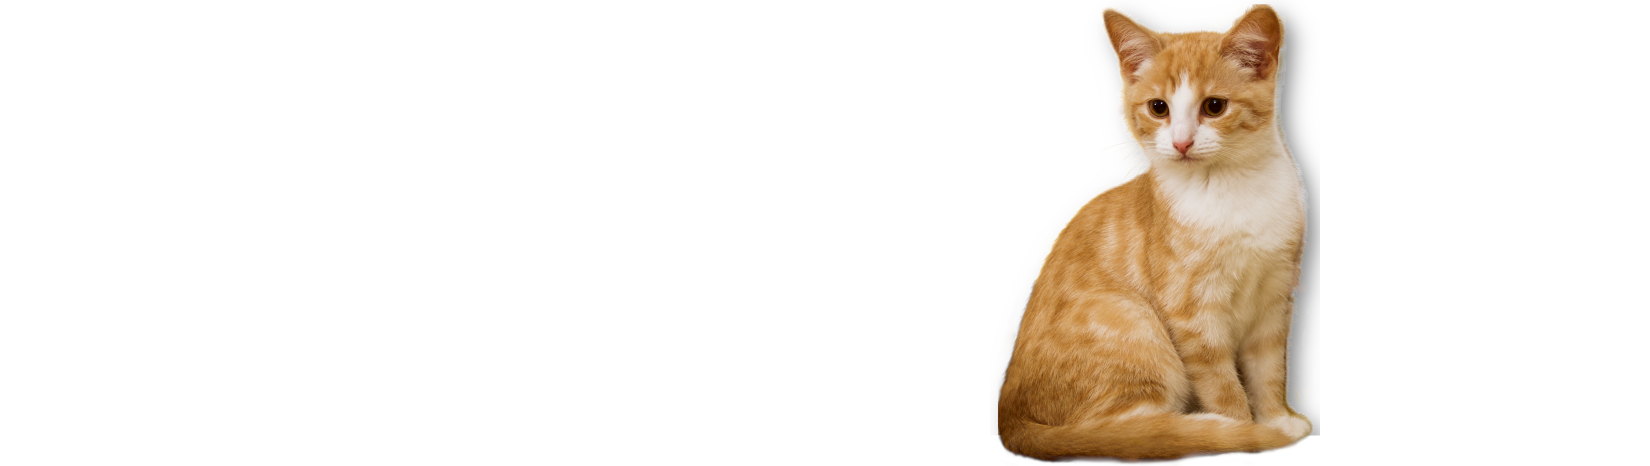
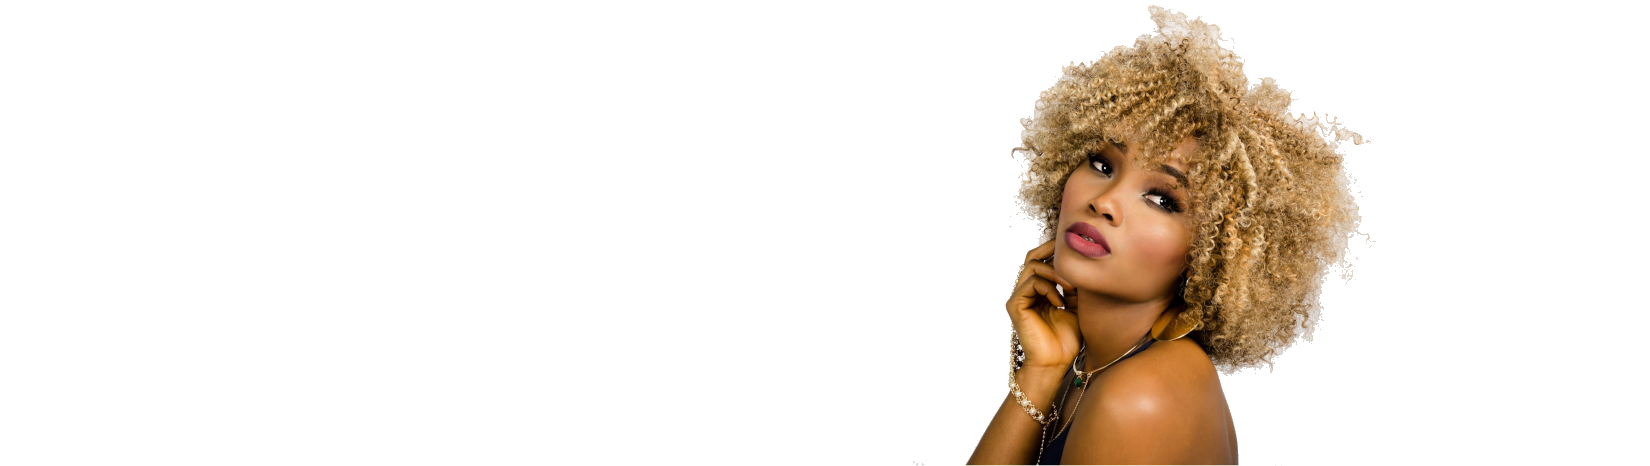
first stage

Changed region(s): [[0.5873, 0.0, 0.8345, 1.0]]

diff --git a/index.html b/index.html
@@ -8,7 +8,7 @@
   <meta name="description" content="">
   <meta name="author" content="">
 
-  <title>Koci Behaviorysta</title>
+  <title>VipServ</title>
 
   <!-- Bootstrap core CSS -->
   <link href="vendor/bootstrap/css/bootstrap.min.css" rel="stylesheet">
@@ -28,7 +28,7 @@
   <!-- Navigation -->
   <nav class="navbar navbar-expand-lg navbar-light fixed-top" id="mainNav">
     <div class="container">
-      <a class="navbar-brand js-scroll-trigger" href="#page-top">Behaviorysta</a>
+      <a class="navbar-brand js-scroll-trigger" href="#page-top">Agencja Ochrony</a>
       <button class="navbar-toggler navbar-toggler-right" type="button" data-toggle="collapse" data-target="#navbarResponsive" aria-controls="navbarResponsive" aria-expanded="false" aria-label="Toggle navigation">
         Menu
         <i class="fas fa-bars"></i>
@@ -39,7 +39,7 @@
             <a class="nav-link js-scroll-trigger" href="#about">O nas</a>
           </li>
           <li class="nav-item">
-            <a class="nav-link js-scroll-trigger" href="#projects">Metody</a>
+            <a class="nav-link js-scroll-trigger" href="#projects">Oferta</a>
           </li>
           <li class="nav-item">
             <a class="nav-link js-scroll-trigger" href="#signup">Kontakt</a>
@@ -53,8 +53,8 @@
   <header class="masthead">
     <div class="container d-flex h-100 align-items-center">
       <div class="mx-auto text-center">
-        <h1 class="mx-auto my-0 text-uppercase">Koci Behaviorysta</h1>
-        <h2 class="text-white-50 mx-auto mt-2 mb-5">uczymy jak czerpać radość żyjąc z kotem</h2>
+        <h1 class="mx-auto my-0 text-uppercase">VIP Security</h1>
+        <h2 class="text-white-50 mx-auto mt-2 mb-5">Transport hostess oraz ochrona nocnych klubów</h2>
         <a href="#about" class="btn btn-primary js-scroll-trigger">Poznaj nas</a>
       </div>
     </div>
@@ -65,9 +65,8 @@
     <div class="container">
       <div class="row">
         <div class="col-lg-8 mx-auto">
-          <h2 class="text-white mb-4">Niepokoi cię zachowanie twojego kota?</h2>
-          <p class="text-white-50">Jeśli zauważasz coś niepkojącego w zachowaniu swojego kota powinieneś w pierwszej kolejności odwiedzić weterynarza. Jeśli okaże się że fizjologicznie twojemu kotu nic nie dolega, może okazać się że twój pupil ma niezaspokojony
-            <a href="https://en.wikipedia.org/wiki/Ethogram">etogram</a>. Koty nie są złośliwymi pupilami, potrafią jednak być wymagającymi domownikami.</p>
+          <h2 class="text-white mb-4">Pewnie, bezpiecznie, intymnie.</h2>
+          <p class="text-white-50">Zapewniamy kompleksowe usługi ochrony. Posiadamy flotę luksusowych pojazdów oraz liczną grupę przeszkolonych ochroniarzy zapewniających bezpieczeństwo na każdym poziomie. Świadczymy usługi dla najlepszych klubów nocnych na terenie większości miast w Polsce. Nasi ludzie czuwają nad bezpieczeństwem dam i dżentelmenów od Krakowa, poprzez Warszawę i Toruń na Trójmieście kończąc. Nasza ochrona jest dyskretna lecz skuteczna. Poszukujesz profesjonalnej ochrony dla twojego interesu to dobrze trafiłeś. Zapraszamy do współpracy.</p>
         </div>
       </div>
       <img src="img/ipad.png" class="img-fluid" alt="">
@@ -85,8 +84,8 @@
         </div>
         <div class="col-xl-4 col-lg-5">
           <div class="featured-text text-center text-lg-left">
-            <h4>Porady</h4>
-            <p class="text-black-50 mb-0">W pierwszej kolejności należy zdefiniować problemy występujące u naszych podopiecznych. Może się okazać iż problem może być łatwy do rozwiązania samodzielnie. W większości wypadków wymagana jest niestety wizyta specjalisty aby całościowo ocenić wszelkie potencjalne źródła problemu.</p>
+            <h4>Transport VIPów</h4>
+            <p class="text-black-50 mb-0">Nasi pracownicy są doskonałymi kierowcami zapewniającymi pełne bezpieczeństwo naszymm klientom na trasie przejazdu. Organizujemy bezpieczny konwój z lotnisk, do klubów, na imprezy zorganizowane. Nasi kierowcy przechodzą okresowe szkolenia z bezpiecznej jazdy oraz uczą się jak być szoferem najwyżej klasy zgodnie z etykieta dyplomatyczną. Niech twoi klienci poczują sie jak prawdziwi VIP.</p>
           </div>
         </div>
       </div>
@@ -100,8 +99,8 @@
           <div class="bg-black text-center h-100 project">
             <div class="d-flex h-100">
               <div class="project-text w-100 my-auto text-center text-lg-left">
-                <h4 class="text-white">Konsultacje</h4>
-                <p class="mb-0 text-white-50">Prowadzimy zdalne konsultacje z wykorzystaniem wideo-chatu (skype lub messenger). Taka forma pozwala na zapoznanie się z problemami oraz umożliwia wprowadzenie pierwszych ćwiczeń na drodze do przysposobienia kota.</p>
+                <h4 class="text-white">Ochrona hostess</h4>
+                <p class="mb-0 text-white-50">Twoje hostessy to twój największy skarb. Od ich bezpieczeństwa zależy bezpieczeństwo twojego biznesu. Powinieneś zadbać o ochronę na najwyższym poziomie. Ochroniarze dla dziewczyn powinni budzić respekt ale nie straszyć. Karki w dresach nie dają takiego samego efektu jak schludni Panowie w garniturach.</p>
                 <hr class="d-none d-lg-block mb-0 ml-0">
               </div>
             </div>
@@ -118,8 +117,8 @@
           <div class="bg-black text-center h-100 project">
             <div class="d-flex h-100">
               <div class="project-text w-100 my-auto text-center text-lg-right">
-                <h4 class="text-white">Wizyta</h4>
-                <p class="mb-0 text-white-50">W trakcie wizyty możemy obserwować pupila w jego naturalnym otoczeniu. Pozwala nam to na szybsze zdiagnozowanie źródeł problemu. Niezmiernie istotna jest obserwacja interakcji między opiekunem a pupilem.</p>
+                <h4 class="text-white">Ochrona klubów</h4>
+                <p class="mb-0 text-white-50">Jeśli twoja ochrona do obrony potrzebuje broni to stanowi to wielkie zagrożenie dla twojego biznesu. Najlepsza ochrona to taka która zapobiega konfrontacji. Nasi pracownicy są przeszkoleni z bezsiłowego rozwiązywania konfliktów oraz z technik programowania neuro-lingwistycznego co powoduje iż potrawią zneutralizować zagrożenie zanim dojdzie do eskalacji.</p>
                 <hr class="d-none d-lg-block mb-0 mr-0">
               </div>
             </div>
@@ -137,7 +136,7 @@
         <div class="col-md-10 col-lg-8 mx-auto text-center">
 
           <i class="far fa-paper-plane fa-2x mb-2 text-white"></i>
-          <h2 class="text-white mb-5">Bądźmy w kontakcie!</h2>
+          <h2 class="text-white mb-5">Zapytaj o wycenę!</h2>
 
           <form class="form-inline d-flex">
             <input type="email" class="form-control flex-fill mr-0 mr-sm-2 mb-3 mb-sm-0" id="inputEmail" placeholder="Wpisz tutaj swój email...">
@@ -161,7 +160,7 @@
               <i class="fas fa-map-marked-alt text-primary mb-2"></i>
               <h4 class="text-uppercase m-0">Adres</h4>
               <hr class="my-4">
-              <div class="small text-black-50">Jednorożca 46, 80-299 Gdańsk</div>
+              <div class="small text-black-50">al. Jerozolimskie 132/136, 02-305 Warszawa</div>
             </div>
           </div>
         </div>
@@ -173,7 +172,7 @@
               <h4 class="text-uppercase m-0">Email</h4>
               <hr class="my-4">
               <div class="small text-black-50">
-                <a href="#">koci.behaviorysta@gmail.com</a>
+                <a href="#">vipserv.pl@wp.pl</a>
               </div>
             </div>
           </div>
@@ -185,7 +184,7 @@
               <i class="fas fa-mobile-alt text-primary mb-2"></i>
               <h4 class="text-uppercase m-0">Telefon</h4>
               <hr class="my-4">
-              <div class="small text-black-50">504 072 305</div>
+              <div class="small text-black-50">886 770 043</div>
             </div>
           </div>
         </div>
@@ -209,7 +208,7 @@
   <!-- Footer -->
   <footer class="bg-black small text-center text-white-50">
     <div class="container">
-      Copyright &copy; Koci Behaviorysta 2019
+      Copyright &copy; VipServ.pl 2019
     </div>
   </footer>
 
